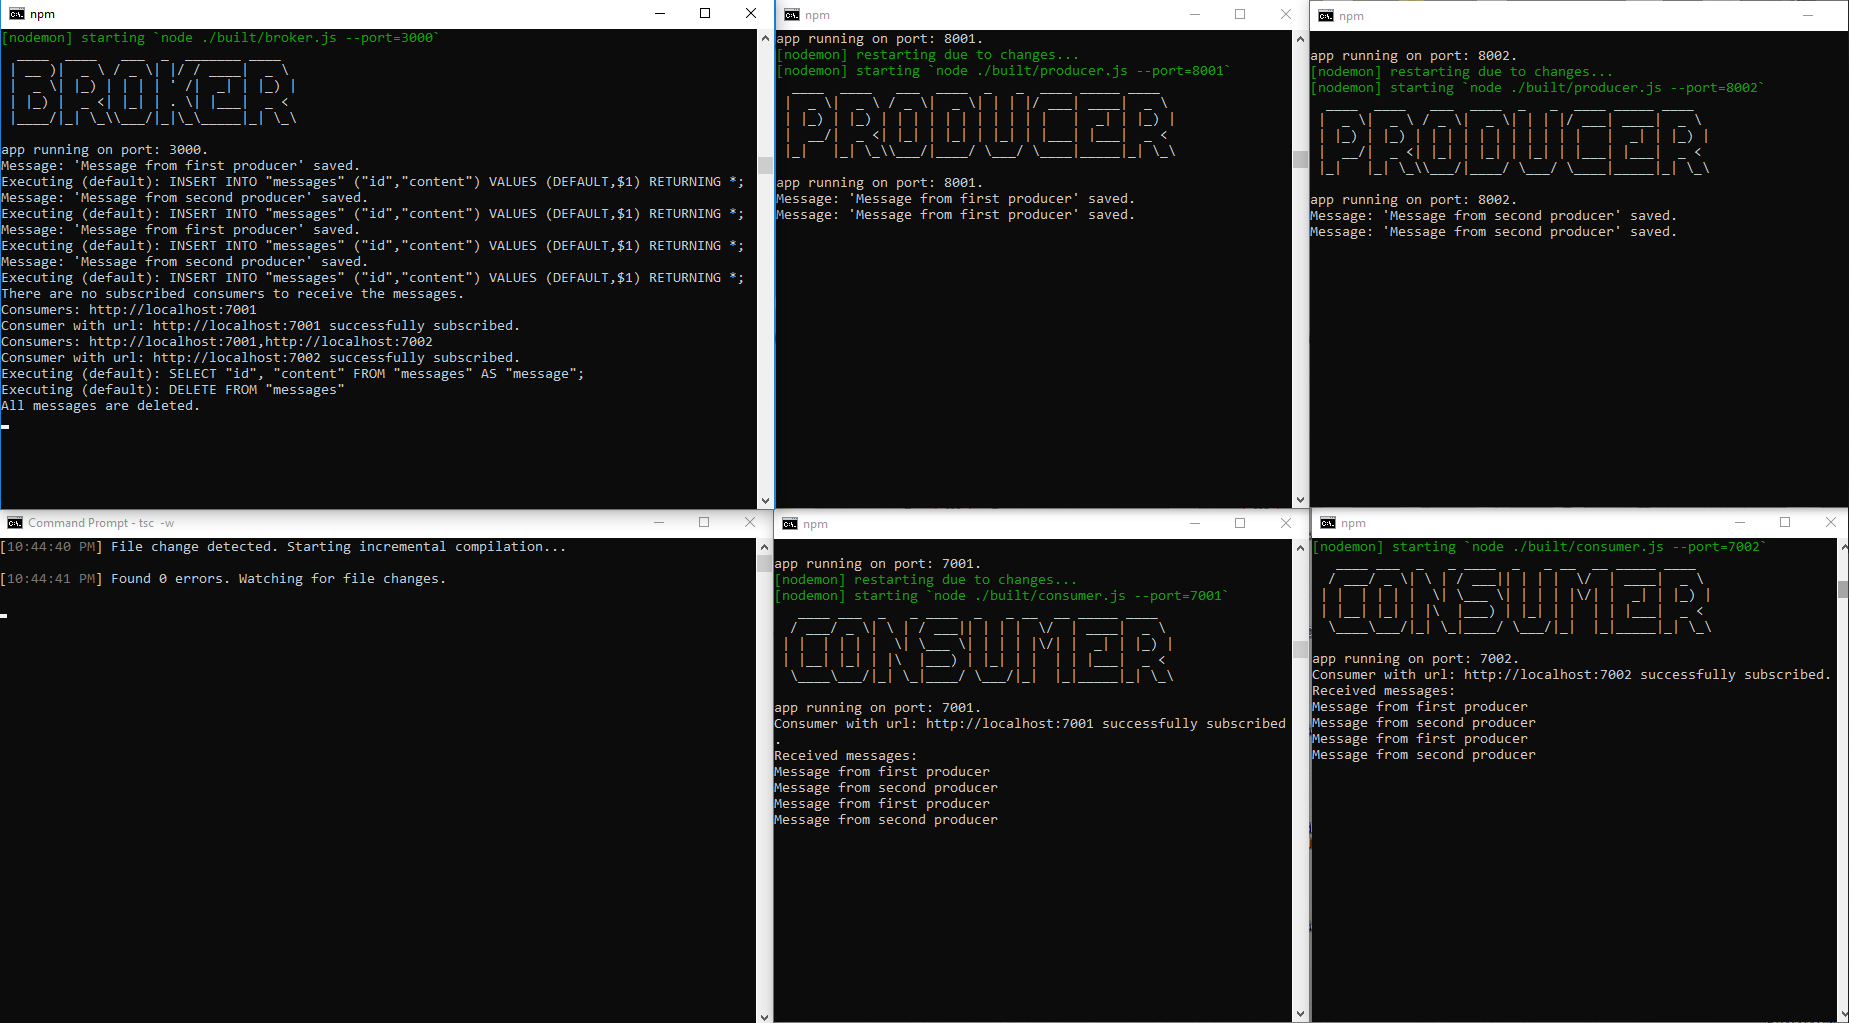
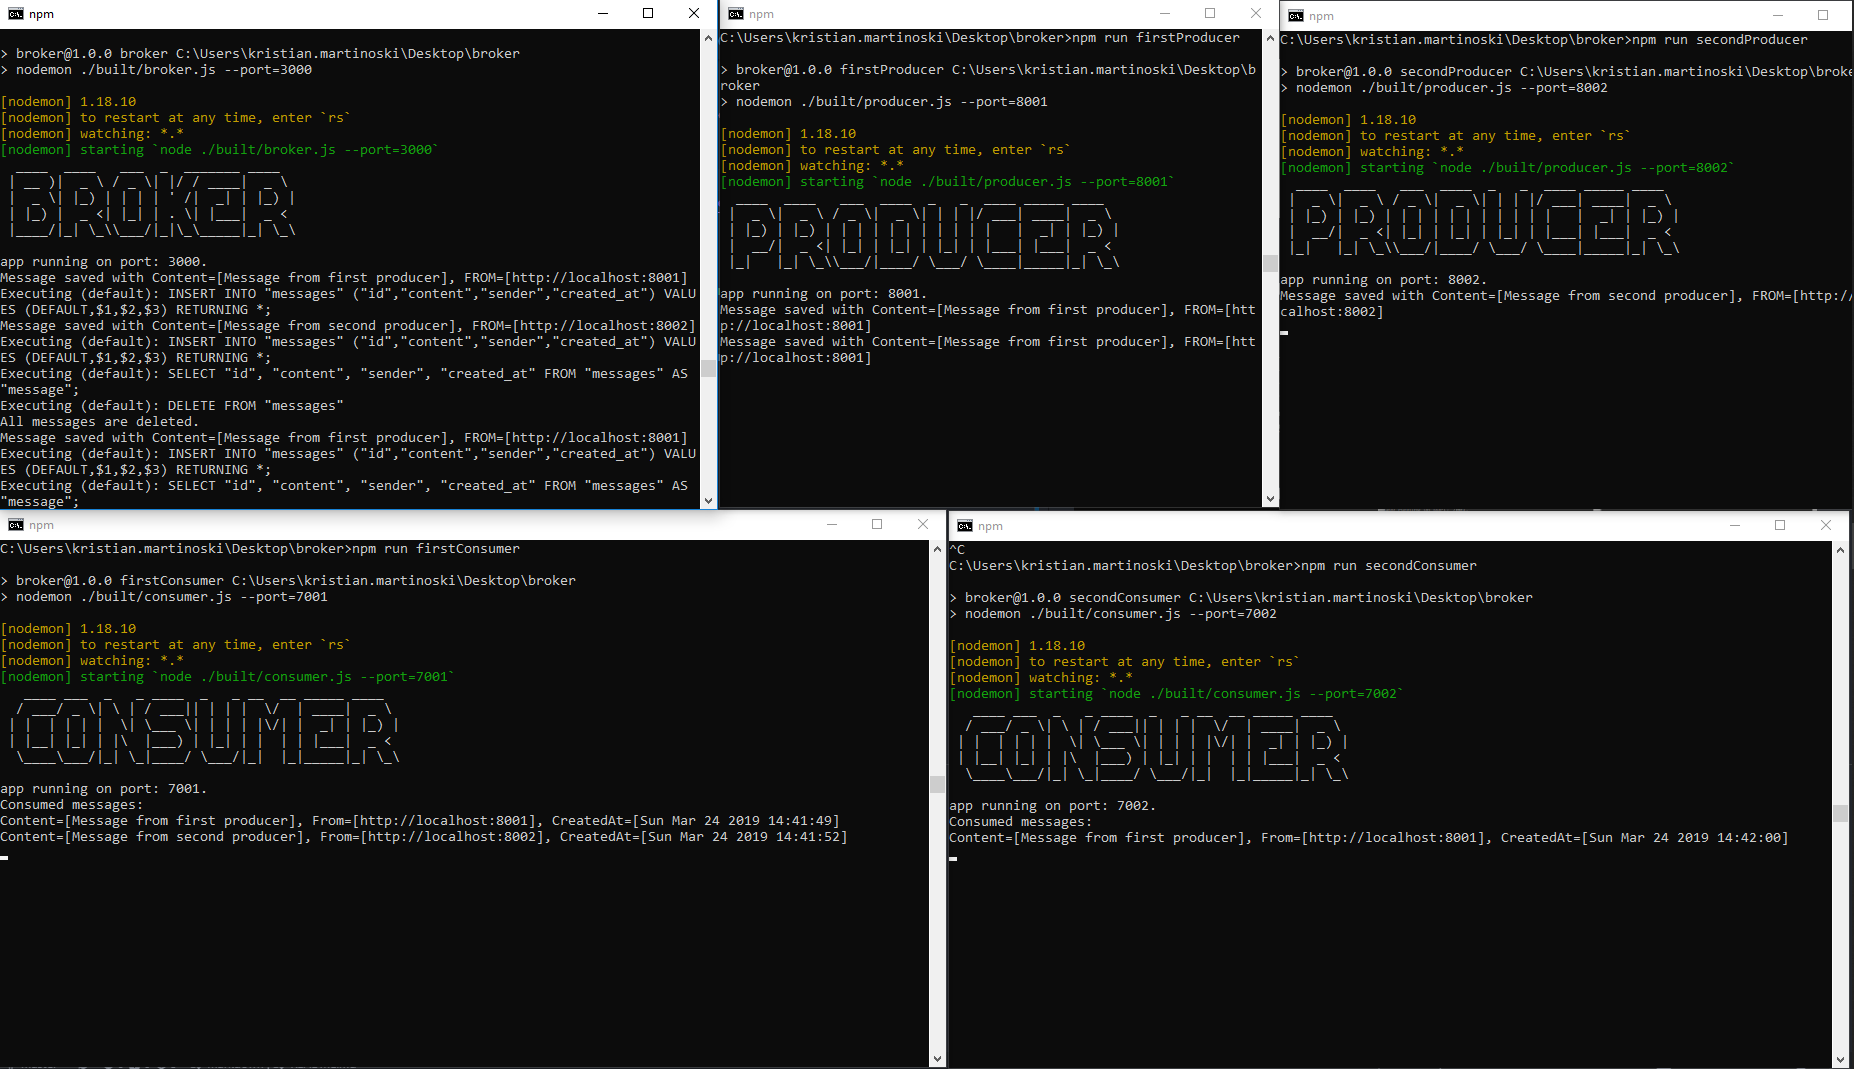
update readme, useCase image, postman collection

Changed region(s): [[0.0, 0.0, 1.0, 1.0], [0.894, 0.5758, 0.9248, 0.6061], [0.2158, 0.6061, 0.2466, 0.6364]]

diff --git a/README.md b/README.md
@@ -1,55 +1,63 @@
-# The node.js message broker app (WIP)
+# Message broker app
 
-Message broker application that allows multiple appplication to publish and subscribe messages to the main broker.
-
-![Tech Stack](img/techStack.png)
-
-Two messaging models are supported: queuing and publish-subscribe. 
- - in a queue, a pool of consumers may read from the broker and each record goes to one of them
-    - message
- - in publish-subscribe the messages are broadcasted to all subscribed consumers
- - the consumer
+Message **broker** is a **Node.JS** application that allows multiple **producers** and **consumers** to send and receive messages. Two messaging models are supported: 
+- **queueing**
+    - asynchronous communication, the producer and consumer of the message do not need to interact with the broker at the same time. Messages in the broker are stored until a given consumer retrieves them.
+- **publish-subscribe** 
+    - broker keeps a list of the subscribed consumers, but when a message is received it is not sent immediately to all the consumers. Instead he exposes send operation where all the stored messages are broadcasted to all the subscribed consumers.
 
 Supported actions: 
-- broker can:
+- **Broker:**
     - receive messages from publishers and store them for future consumption
     - add/remove message consumers
     - on a request from given consumer to send him all the messages
-    - on his own to be able to send all the messages all the subscribed consumers
-- consumser can:
-    - subscribe/unsubscribe to the broker
-    - consume messages from the broker (initiated by the consumer)
-    - receive messages from the broker 
-        - when the broker wants to broadcast the messages to all consumsers (initiated by the broker)
-- producer can:
-    - publish messages to the broker
+    - on his own to send the messages to the subscribed consumers
 
+- **Producer:**
+    - send messages to the broker
+
+- **Consumer:**
+    - consume messages from the broker (initiated by the consumer)
+    - subscribe/unsubscribe to the broker
+    - receive messages from the broker (initiated by the broker)
+        - when the broker wants to broadcast the messages to the subscribed consumers
+
+# Tech stack
+![Tech Stack](img/techStack.png)
+
+### Broker with 2 publishers and subscribers
 ![Use case](img/useCase.png)
+
+### Postman ([collection here](postman/broker.postman_collection.json))
 ![Postman screenshot](img/postmanScreenshot.png)
 
-## Steps for startup of the apps
+## Commands
 
-To start the broker app, run the following in separate terminals
+To install the dependencies: ```npm install``` and to build the typescript files: ```tsc -w```
+
+To start the broker and 2 producers and consumers run the following in separate terminals
 
 ```bash
 npm run broker
 npm run firstProducer
+npm run secondProducer
 npm run firstConsumer
+npm run secondConsumer
 ```
-
-For development
+To run the tests: 
 ```bash
-tsc -w
+npm run testBroker
+npm run testProducer
+npm run testConsumer
+```
+Docker:
+```bash
 docker build -t node-broker .
-docker build -t node-first-consumer -f ./consumer/Dockerfile .
 docker run -it -p 3000:3000 node-broker
 ```
-
-## Used technologies
-* node.js
-* express.js
-* typescript
-* postgre
-* docker
-
-Made with ❤ by Kristian
+- to build the first consumer and producer
+```bash
+docker build -t node-first-consumer -f ./consumer/Dockerfile .
+docker build -t node-first-producer -f ./producer/Dockerfile .
+```
+Made with ❤ by Kristian Martinoski
